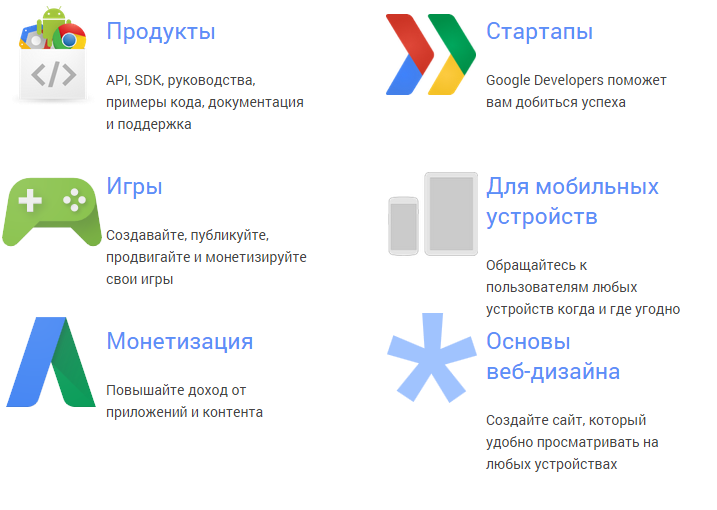
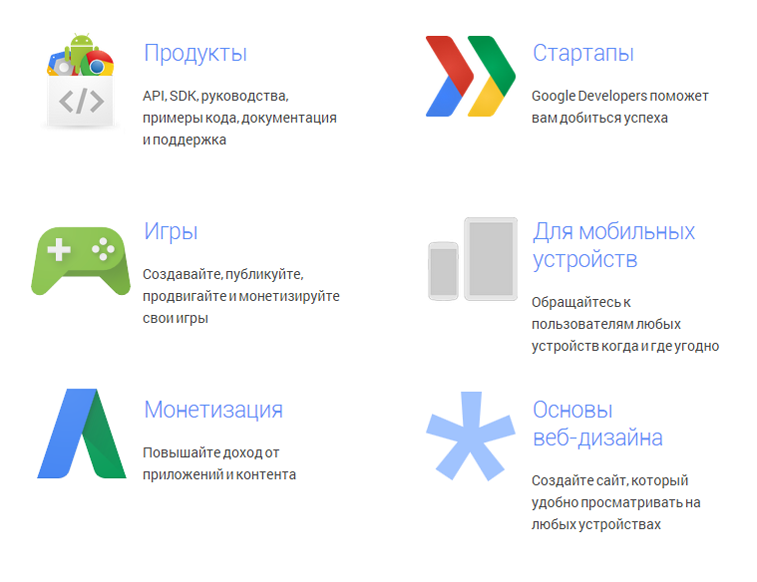
#7 ДЗ 10 Александра исправлено

diff --git a/aleksandra/22122014dz10/index.html b/aleksandra/22122014dz10/index.html
@@ -3,51 +3,52 @@
 <head>
 	<meta charset="UTF-8">
 	<title>Домашнее задание 10</title>
+	<link rel="stylesheet" type="text/css" href="css/reset.css">
 	<link rel="stylesheet" type="text/css" href="css/style.css">
 </head>
 <body>
 	<div>
     	<section>
             <div class="block">
-	    	    <div class="image1"></div>
-		    	<div class="class">
-		    		<h1>Продукты</h1>
+	    	    <div class="image image1"></div>
+		    	<div class="class row1">
+		    		<h2>Продукты</h2>
 		    		<p><span>API, SDK,</span> руководства, примеры кода, документация и поддержка</p>
 		    	</div>
 	    	</div>
 	    	<div class="block">
-		    	<div class="image2"></div>
-		    	<div class="class">
-		    		<h1>Стартапы</h1>
-		    		<p><span>Google Developers</span> поможет вам добиться успеха</p>
+		    	<div class="image image2"></div>
+		    	<div class="class row1">
+		    		<h2>Стартапы</h2>
+		    		<p><span>Google Developers</span> поможет <br>вам добиться успеха</p>
 		    	</div>
 	    	</div>
 	    	<div class="block">
-		    	<div class="image3"></div>
-		    	<div class="class">
-		    		<h1>Игры</h1>
+		    	<div class="image image3"></div>
+		    	<div class="class row2">
+		    		<h2>Игры</h2>
 		    		<p>Создавайте, публикуйте, продвигайте и монетизируйте свои игры</p>
 		    	</div>
 	    	</div>
 	    	<div class="block">
-		    	<div class="image4"></div>
-		    	<div class="class">
-		    		<h1>Для мобильных устройств</h1>
-		    		<p>Обращайтесь к пользователям любых устройств когда и где угодно</p>
+		    	<div class="image image4"></div>
+		    	<div class="class row2">
+		    		<h2>Для мобильных устройств</h2>
+		    		<p>Обращайтесь к <br> пользователям любых <br>устройств когда и где угодно</p>
 		    	</div>
 	    	</div>
 	    	<div class="block">
-		    	<div class="image5"></div>
-		    	<div class="class">
-		    		<h1>Монетизация</h1>
+		    	<div class="image image5"></div>
+		    	<div class="class row3">
+		    		<h2>Монетизация</h2>
 		    		<p>Повышайте доход от приложений и контента</p>
 		    	</div>
 	    	</div>
 	    	<div class="block">
-		    	<div class="image6"></div>
-		    	<div class="class">
-		    		<h1>Основы <br> веб-дизайна</h1>
-		    		<p>Создайте сайт, который удобно просматривать на любых устройствах</p>
+		    	<div class="image image6"></div>
+		    	<div class="class row3">
+		    		<h2>Основы <br> веб-дизайна</h2>
+		    		<p>Создайте сайт, который <br>удобно просматривать на <br>любых устройствах</p>
 		    	</div>
 	    	</div>
     	</section>

diff --git a/aleksandra/22122014dz10/css/style.css b/aleksandra/22122014dz10/css/style.css
@@ -1,75 +1,84 @@
-@import url(http://fonts.googleapis.com/css?family=Roboto);
-@import url(http://fonts.googleapis.com/css?family=Roboto:300);
+@import url(http://fonts.googleapis.com/css?family=Roboto:300,400);
 
-* {
-	margin: 0;
-	padding: 0;
-}
 
 .body {
-  width: 753px;
-  height: 586px; 
+  width: 757px;
+  height: 582px; 
   min-width: 500px;
   max-width: 1575px;
-  font: 400 16px 'Roboto', sans-serif; 
   color: #252525;
-  margin: 30px 22px 40px 28px;
+}
+
+section  {
+  padding: 32px 31px 41px 34px;
 }
 
 .block {
   width: 310px;
-  height: 155px; 
+  height: 169px;
+  margin-right: 80px;
   float: left;
-  margin-right: 70px;
 }
 
-span {
-  font-weight: bold;
+.block:after {
+  display: block;
+  content: " ";
+  clear: both;
 }
 
-.block h1 {
-  font: 500 23px 'Roboto', sans-serif; 
+.block h2 {
+  font: 300 23px/28px 'Roboto';
   color: #5b90f8;
-  padding-top: 16px;
+  padding-top: 8px;
+  padding-left: 7px;
+  letter-spacing: -0.5px;
 }
 
 .block p {
-  font: 400 14px 'Roboto', sans-serif;
-  width: 201px;
-  color: #444444;
-  padding-top: 24px;
-  line-height: 22px;
+  font: 400 14px/22px 'Roboto';
+  color: #444;
+  padding-top: 18px;
+  padding-left: 6px;
+  word-spacing: -1.5px;
 }
 
 .block .class {
-  width: 201px;
-  height: 173px; 
-  overflow: visible;
+  width: 204px;
+  height: 173px;
   float: left; 
 }
 
-.image1, .image2, .image3, .image4, .image5, .image6 {
-  width: 106px;
-  height: 91px;
-  float: left;
-  padding-top: 32px;
+.row2 {
+  padding-top: 10px;
 }
 
-.image1 {
-background: no-repeat url('../images/sprite.png') 0 0;
+.row3 {
+  padding-top: 20px;
 }
+
+.image {
+  width: 106px;
+  height: 125px;
+  float: left;
+  background: no-repeat url('../images/sprite.png');
+}
+
 .image2 {
-background: no-repeat url('../images/sprite.png') 0 -125px;
+  background-position: 0 -125px;
 }
+
 .image3 {
-background: no-repeat url('../images/sprite.png') 0 -250px;
+  background-position: 0 -250px;
 }
+
 .image4 {
-background: no-repeat url('../images/sprite.png') 0 -375px;
+  background-position: 0 -375px;
 }
+
 .image5 {
-background: no-repeat url('../images/sprite.png') 0 -500px;
+  background-position: 0 -500px;
 }
+
 .image6 {
-background: no-repeat url('../images/sprite.png') 0 -625px;
+  background-position: 0 -625px;
 }

diff --git a/aleksandra/22122014dz10/css/reset.css b/aleksandra/22122014dz10/css/reset.css
@@ -1,0 +1,47 @@
+/* http://meyerweb.com/eric/tools/css/reset/ 
+   v2.0 
+*/
+
+html, body, div, span, applet, object, iframe,
+h1, h2, h3, h4, h5, h6, p, blockquote, pre,
+a, abbr, acronym, address, big, cite, code,
+del, dfn, em, img, ins, kbd, q, s, samp,
+small, strike, strong, sub, sup, tt, var,
+b, u, i, center,
+dl, dt, dd, ol, ul, li,
+fieldset, form, label, legend,
+table, caption, tbody, tfoot, thead, tr, th, td,
+article, aside, canvas, details, embed, 
+figure, figcaption, footer, header, hgroup, 
+menu, nav, output, ruby, section, summary,
+time, mark, audio, video {
+	margin: 0;
+	padding: 0;
+	border: 0;
+	font-size: 100%;
+	font: inherit;
+	vertical-align: baseline;
+}
+/* HTML5 display-role reset for older browsers */
+article, aside, details, figcaption, figure, 
+footer, header, hgroup, menu, nav, section {
+	display: block;
+}
+body {
+	line-height: 1;
+}
+ol, ul {
+	list-style: none;
+}
+blockquote, q {
+	quotes: none;
+}
+blockquote:before, blockquote:after,
+q:before, q:after {
+	content: '';
+	content: none;
+}
+table {
+	border-collapse: collapse;
+	border-spacing: 0;
+}
